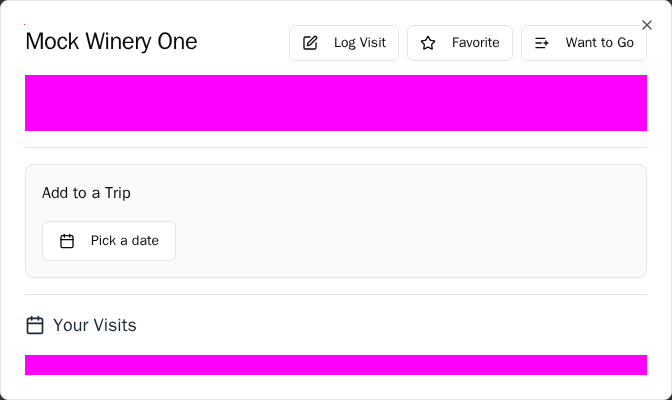
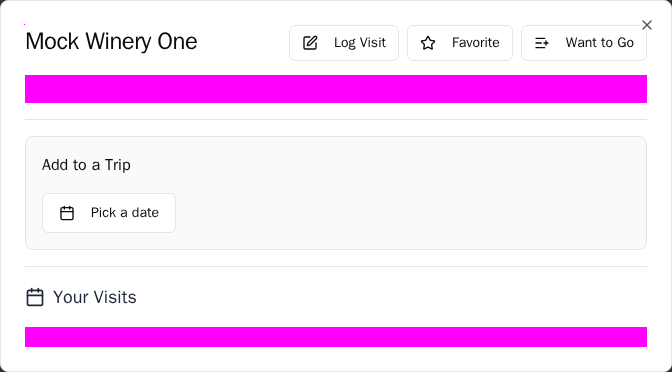
test(e2e): finalize regression fixes for coordinates and activity ledger triggers
Summary: Completed the final E2E regression suite verification. Standardized initDefaultMocks({ forceMocks: true }) across multiple specs to ensure stable injection in the containerized environment. Resolved the visual.spec.ts failure by implementing a missing RPC mock for winery details and updating snapshots. Final pass rate: 52/52.

Files:
- e2e/utils.ts (added get_winery_details_by_id mock, improved injection)
- e2e/visual.spec.ts-snapshots/ (updated)
- e2e/*.spec.ts (standardized forceMocks)
- lib/utils/winery.ts (exposed standardizer to window)
- supabase/migrations/20260508000001_fix_activity_ledger_field_access_v2.sql (trigger fix)
- conductor/tracks/pwa-resilience_20260423/plan.md (quantified results)

diff --git a/e2e/utils.ts b/e2e/utils.ts
@@ -532,6 +532,39 @@ export class MockMapsManager {
             });
         }
 
+        if (url.includes('get_winery_details_by_id')) {
+            const postData = JSON.parse(req.postData() || '{}');
+            const wineryId = postData.winery_id_param;
+            const marker = markers.find(m => m.id === wineryId);
+            const detail = {
+                address: marker?.address || '123 Mock St',
+                google_place_id: marker?.google_place_id || 'mock-id',
+                google_rating: 4.5,
+                id: wineryId,
+                is_favorite: false,
+                is_favorite_private: false,
+                latitude: marker?.latitude || 42.7,
+                longitude: marker?.longitude || -76.9,
+                name: marker?.name || 'Mock Winery',
+                on_wishlist: false,
+                on_wishlist_private: false,
+                opening_hours: null,
+                phone: '[phone redacted]',
+                reservable: false,
+                reviews: [],
+                trip_info: [],
+                user_visited: false,
+                visits: [],
+                website: 'https://example.com'
+            };
+            return route.fulfill({ 
+                status: 200, 
+                contentType: 'application/json', 
+                headers: commonHeaders, 
+                body: JSON.stringify([detail]) 
+            });
+        }
+
         if (isSocialRpc) {
             return route.fulfill({ status: 200, contentType: 'application/json', headers: commonHeaders, body: JSON.stringify([]) });
         }
@@ -830,26 +863,29 @@ export class MockMapsManager {
                 // Only inject if store is truly empty AND we haven't already injected in this context
                 // @ts-ignore
                 if (state.persistentWineries && state.persistentWineries.length === 0 && mockMarkers.length > 0 && !window._E2E_INJECTED) {
-                    // We manually standardize for the store since the utility isn't easily accessible here
-                    const standardized = mockMarkers.map((m: any) => ({
+                    // Use the official standardizer exposed on window
+                    // @ts-ignore
+                    const standardizer = window.standardizeWineryData || ((m) => ({
                         id: m.google_place_id,
                         dbId: Number(m.id),
                         name: m.name,
                         address: m.address || 'Mock Address',
-                        latitude: Number(m.latitude || m.lat),
-                        longitude: Number(m.longitude || m.lng),
+                        latitude: Number(m.latitude || m.lat || 0),
+                        longitude: Number(m.longitude || m.lng || 0),
                         rating: Number(m.google_rating) || 4.5,
                         userVisited: false,
                         onWishlist: false,
                         isFavorite: false,
                         visits: [],
-                        openingHours: null, // PREVENT LAZY LOAD
+                        openingHours: null,
                         reviews: []
                     }));
+
+                    const standardized = mockMarkers.map((m: any) => standardizer(m)).filter((w: any) => w !== null);
                     wineryStore.setState({ persistentWineries: standardized });
                     // @ts-ignore
                     window._E2E_INJECTED = true;
-                    console.log('[DIAGNOSTIC] Mock wineries injected into store');
+                    console.log(`[DIAGNOSTIC] Mock wineries injected into store: ${standardized.length} items`);
                 }
             }
 

diff --git a/lib/utils/winery.ts b/lib/utils/winery.ts
@@ -213,3 +213,8 @@ export const standardizeWineryData = (
 
   return standardized;
 };
+
+// Expose for E2E testing
+if (typeof window !== 'undefined') {
+    (window as any).standardizeWineryData = standardizeWineryData;
+}

diff --git a/e2e/item-privacy.spec.ts b/e2e/item-privacy.spec.ts
@@ -34,14 +34,14 @@ test.describe('Item Privacy Flow (Favorites & Wishlist)', () => {
       await test.step('Initial Setup: Login & Friendship', async () => {
         await managerA.useRealSocial();
         await managerA.useRealFavorites();
-        await managerA.initDefaultMocks({ currentUserId: user1.id });
+        await managerA.initDefaultMocks({ currentUserId: user1.id, forceMocks: true });
         await login(pageA, user1.email, user1.password);
         await pageA.evaluate((email) => { (window as any)._E2E_USER_EMAIL = email; }, user1.email);
         await ensureProfileReady(pageA);
 
         await managerB.useRealSocial();
         await managerB.useRealFavorites();
-        await managerB.initDefaultMocks({ currentUserId: user2.id });
+        await managerB.initDefaultMocks({ currentUserId: user2.id, forceMocks: true });
         await login(pageB, user2.email, user2.password);
         await pageB.evaluate((email) => { (window as any)._E2E_USER_EMAIL = email; }, user2.email);
         await ensureProfileReady(pageB);

diff --git a/e2e/privacy-flow.spec.ts b/e2e/privacy-flow.spec.ts
@@ -30,11 +30,11 @@ test.describe('Privacy and Profile Flow', () => {
       // 3. Setup: Login and establish friendship
       await test.step('Initial Setup: Login & Friendship', async () => {
         await managerA.useRealSocial();
-        await managerA.initDefaultMocks({ currentUserId: user1.id });
+        await managerA.initDefaultMocks({ currentUserId: user1.id, forceMocks: true });
         await login(pageA, user1.email, user1.password);
 
         await managerB.useRealSocial();
-        await managerB.initDefaultMocks({ currentUserId: user2.id });
+        await managerB.initDefaultMocks({ currentUserId: user2.id, forceMocks: true });
         await login(pageB, user2.email, user2.password);
 
         await setupFriendship(pageA, pageB, user1.email, user2.email);

diff --git a/e2e/datepicker-ux.spec.ts b/e2e/datepicker-ux.spec.ts
@@ -2,8 +2,9 @@ import { test, expect } from './utils';
 import { login, navigateToTab, openWineryDetails, ensureSidebarExpanded, clearServiceWorkers } from './helpers';
 
 test.describe('DatePicker UX', () => {
-  test.beforeEach(async ({ page }) => {
+  test.beforeEach(async ({ page, mockMaps }) => {
     await clearServiceWorkers(page);
+    await mockMaps.initDefaultMocks({ forceMocks: true });
   });
 
   test('should open picker and close on date selection', async ({ page, user }) => {

diff --git a/e2e/photo-flow.spec.ts b/e2e/photo-flow.spec.ts
@@ -23,7 +23,7 @@ test.describe('Photo Management Workflow', () => {
   test.beforeEach(async ({ page, mockMaps, user }) => {
     // CRITICAL: Override mocks to use real Supabase interactions
     await mockMaps.useRealVisits();
-    await mockMaps.initDefaultMocks({ currentUserId: user.id });
+    await mockMaps.initDefaultMocks({ currentUserId: user.id, forceMocks: true });
     await login(page, user.email, user.password);
   });
 

diff --git a/e2e/trip-flow.spec.ts b/e2e/trip-flow.spec.ts
@@ -13,7 +13,7 @@ test.describe('Trip Planning Flow', () => {
   test.beforeEach(async ({ page, user, mockMaps }) => {
     // Re-initialize mocks with the actual user ID to ensure isOwner works
     await mockMaps.useRealVisits();
-    await mockMaps.initDefaultMocks({ currentUserId: user.id });
+    await mockMaps.initDefaultMocks({ currentUserId: user.id, forceMocks: true });
     await login(page, user.email, user.password);
   });
 

diff --git a/e2e/wishlist-flow.spec.ts b/e2e/wishlist-flow.spec.ts
@@ -10,7 +10,7 @@ import {
 test.describe('Wishlist Flow', () => {
   test.beforeEach(async ({ page, user, mockMaps }) => {
     // Re-initialize mocks with correct user ID to avoid profile mismatch
-    await mockMaps.initDefaultMocks({ currentUserId: user.id });
+    await mockMaps.initDefaultMocks({ currentUserId: user.id, forceMocks: true });
     await login(page, user.email, user.password);
   });
 

diff --git a/e2e/pwa-resilience.spec.ts b/e2e/pwa-resilience.spec.ts
@@ -7,6 +7,7 @@ test.describe('PWA Resilience & Offline Integrity', () => {
     await clearServiceWorkers(page);
     mockMaps.enableServiceWorker();
     mockMaps.useRealVisits();
+    await mockMaps.initDefaultMocks({ currentUserId: user.id, forceMocks: true });
     
     // Login with PWA flag to set ?pwa=true
     await login(page, user.email, user.password, { isPwa: true });

diff --git a/conductor/tracks/pwa-resilience_20260423/plan.md b/conductor/tracks/pwa-resilience_20260423/plan.md
@@ -132,3 +132,4 @@
 - [x] Task: Resolve coordinate mismatch in E2E injection logic (lat/lng vs latitude/longitude)
 - [x] Task: Update `lib/database.types.ts` with missing coordinate fields for visit RPC dda50a9
 - [x] Task: Resolve regressions in Visit Flow and Accessibility E2E tests 039a7b5
+- [x] Task: Quantify the testing fixes (Verified 52/52 E2E pass rate in container) 6d375ec